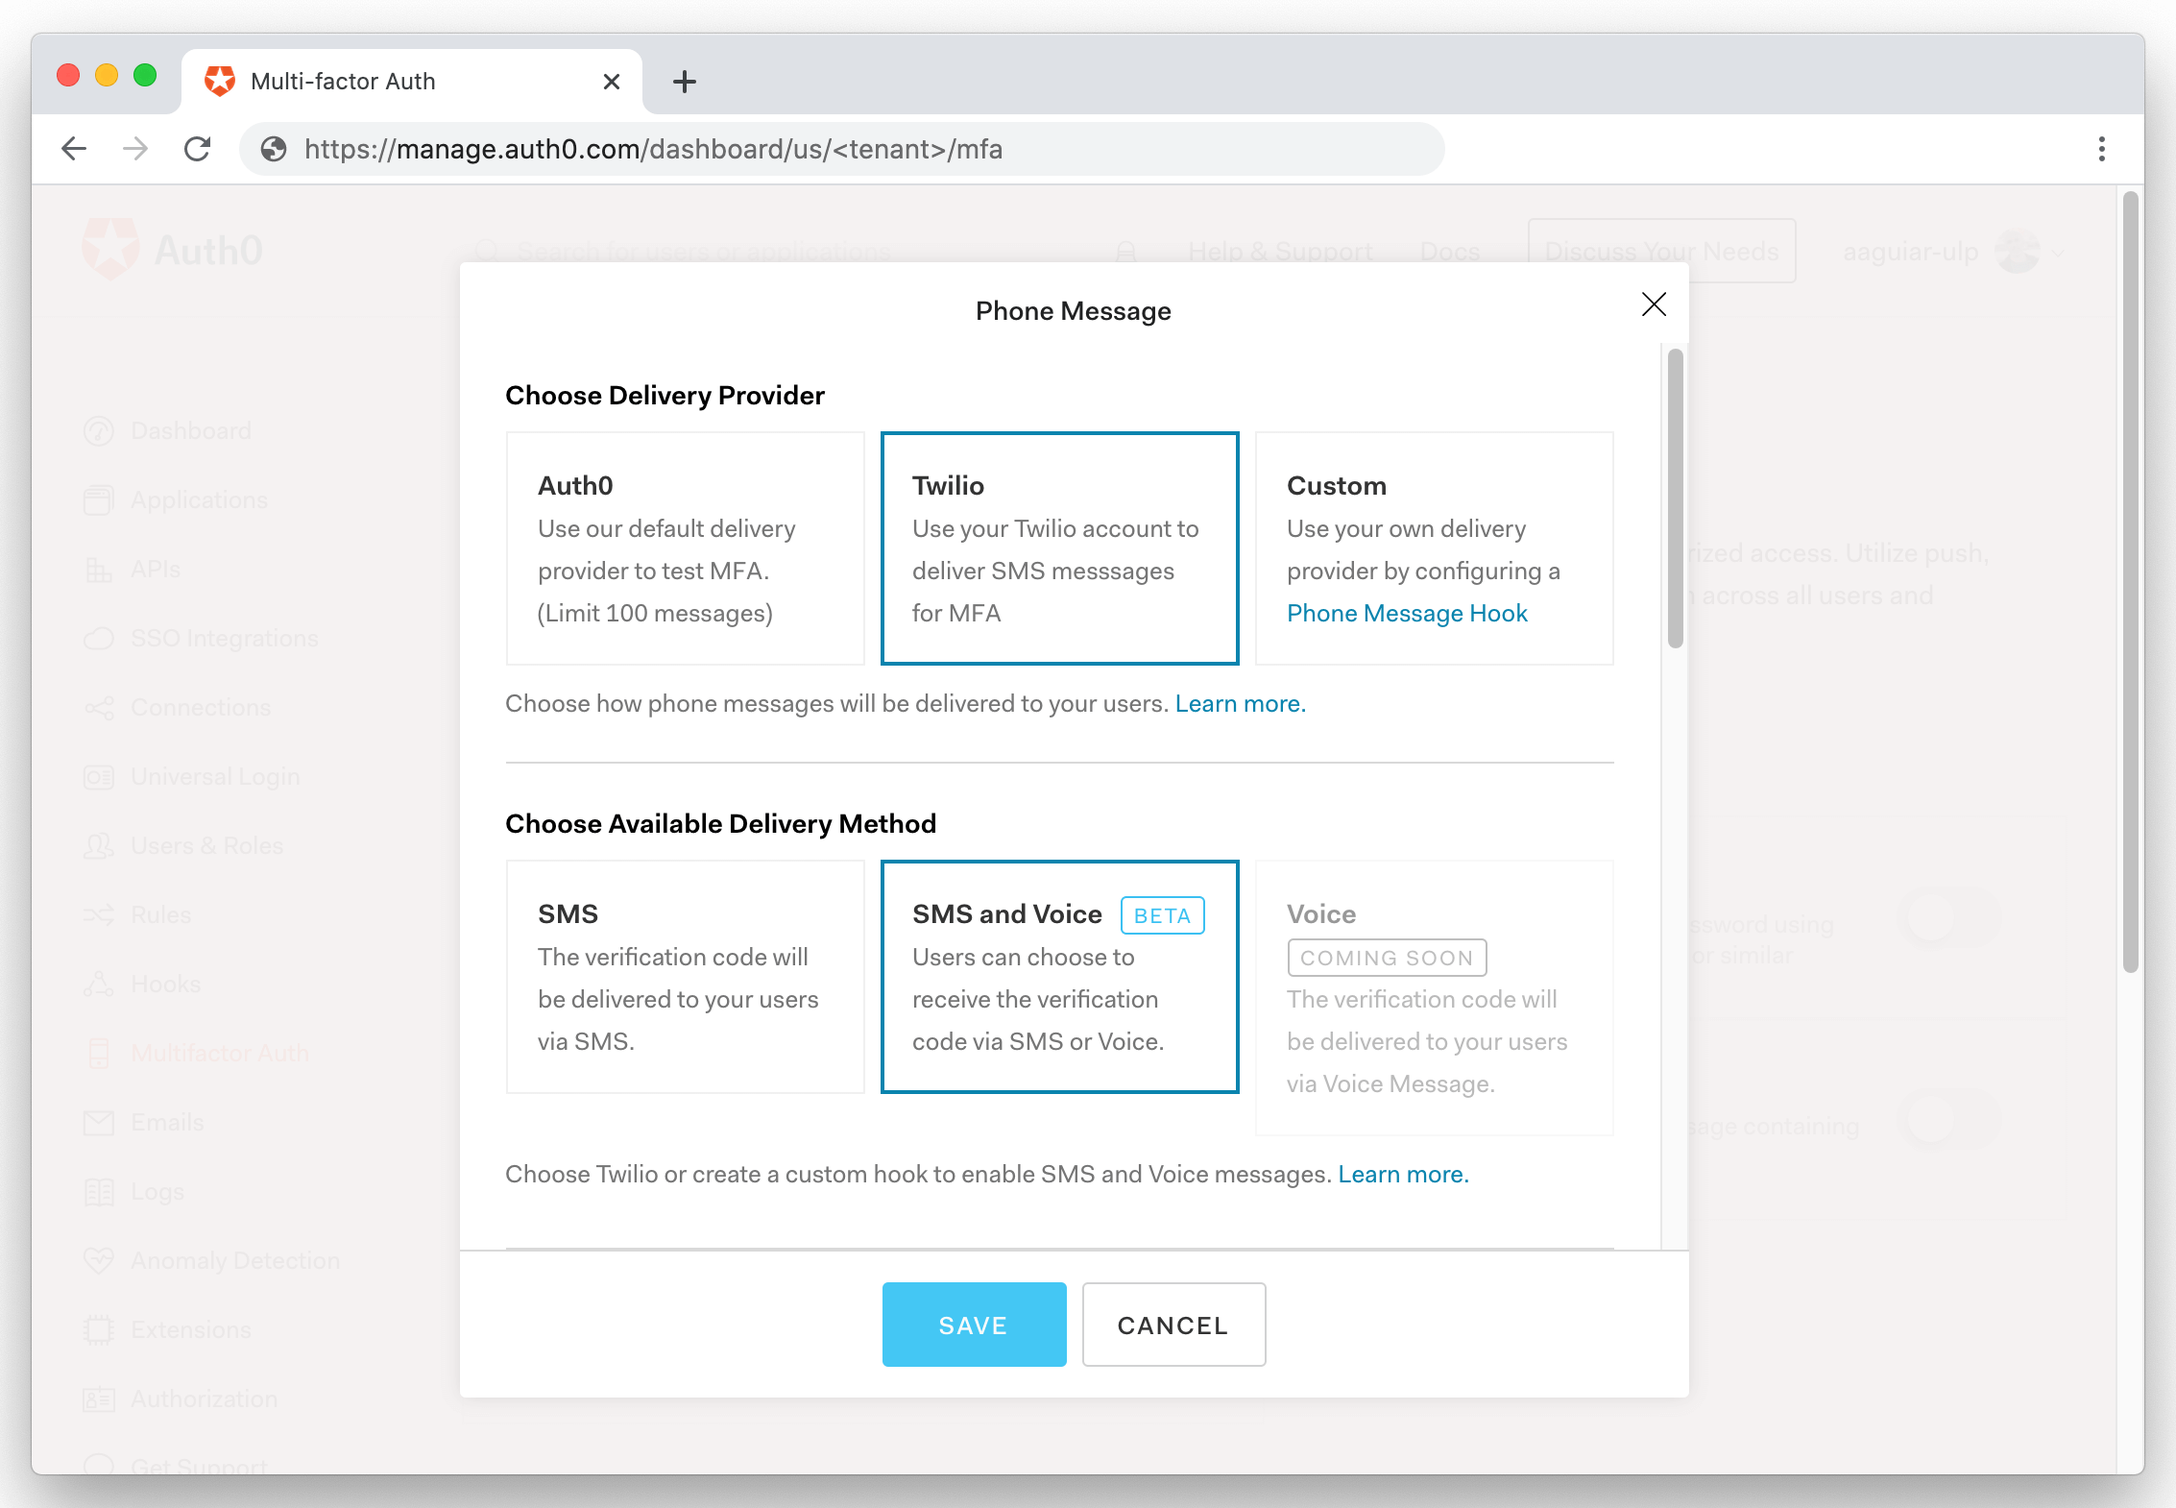
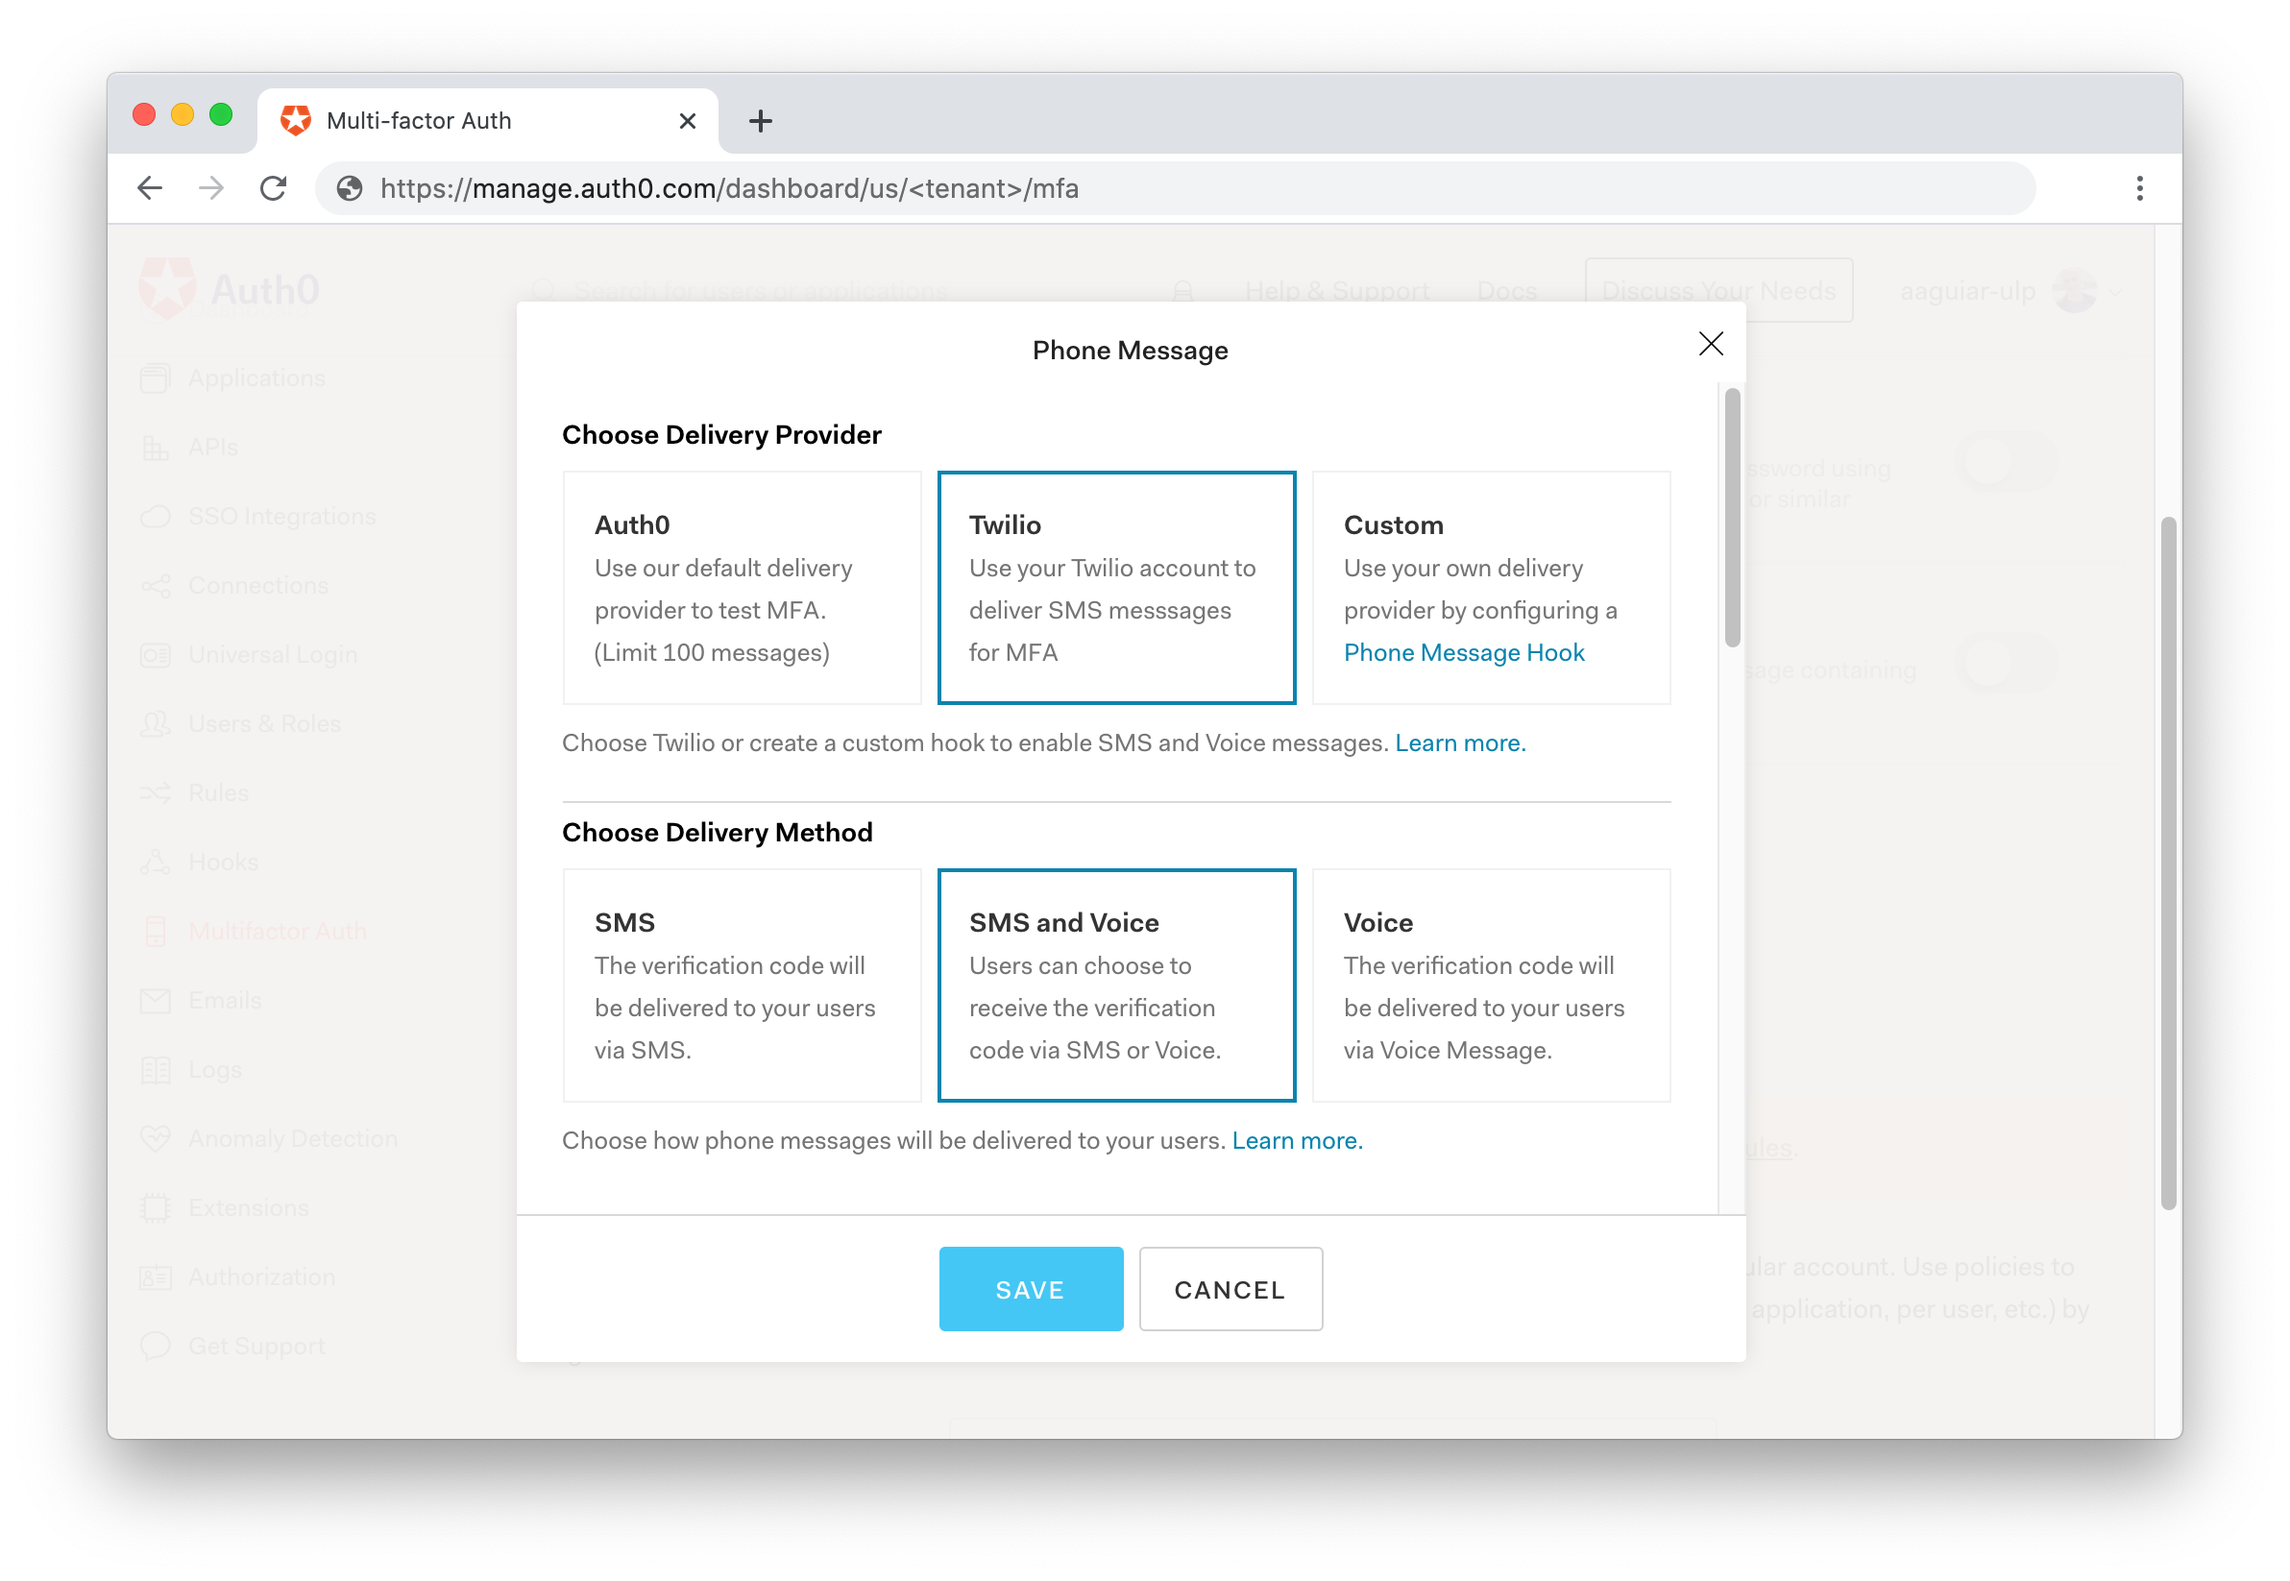
Voice MFA GA

diff --git a/articles/mfa/guides/configure-phone.md b/articles/mfa/guides/configure-phone.md
@@ -16,7 +16,6 @@ If you use SMS or Voice as an authentication factor, when an end user attempts t
 You can configure this factor to send messages through SMS, Voice, or to let the end users choose how they want the code to be delivered.
 
 ::: warning
-- Using Voice as an MFA factor is currently a Beta feature. It should not be used in production environments.
 - Voice as an MFA factor is not available when using the [Classic Universal Login Experience](/universal-login/classic).
 ::: 
 
@@ -30,7 +29,7 @@ When only SMS is enabled, the flow is simpler:
 
 ![SMS - End User](/media/articles/mfa/mfa-sms.png)
 
-After users are enrolled, the next time they authenticate they will get the Voice or SMS message in their registered phone. 
+After users are enrolled, the next time they authenticate they will get the Voice or SS message in their registered phone. 
 
 ## Administrative setup
 
